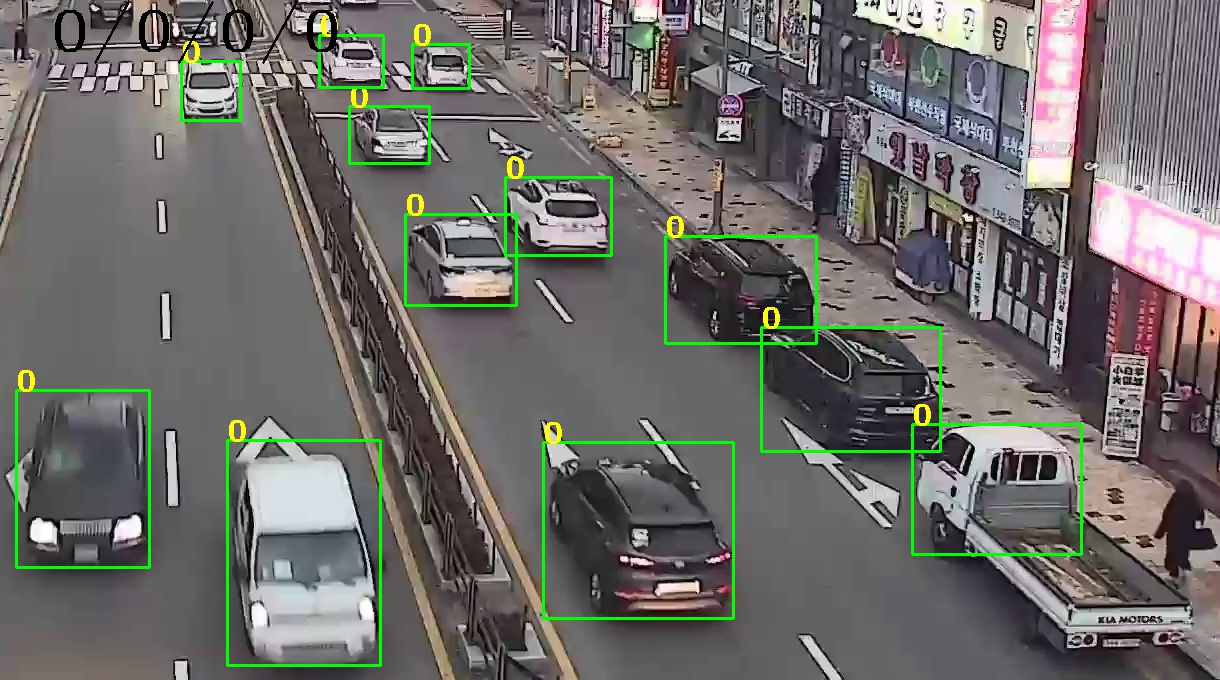
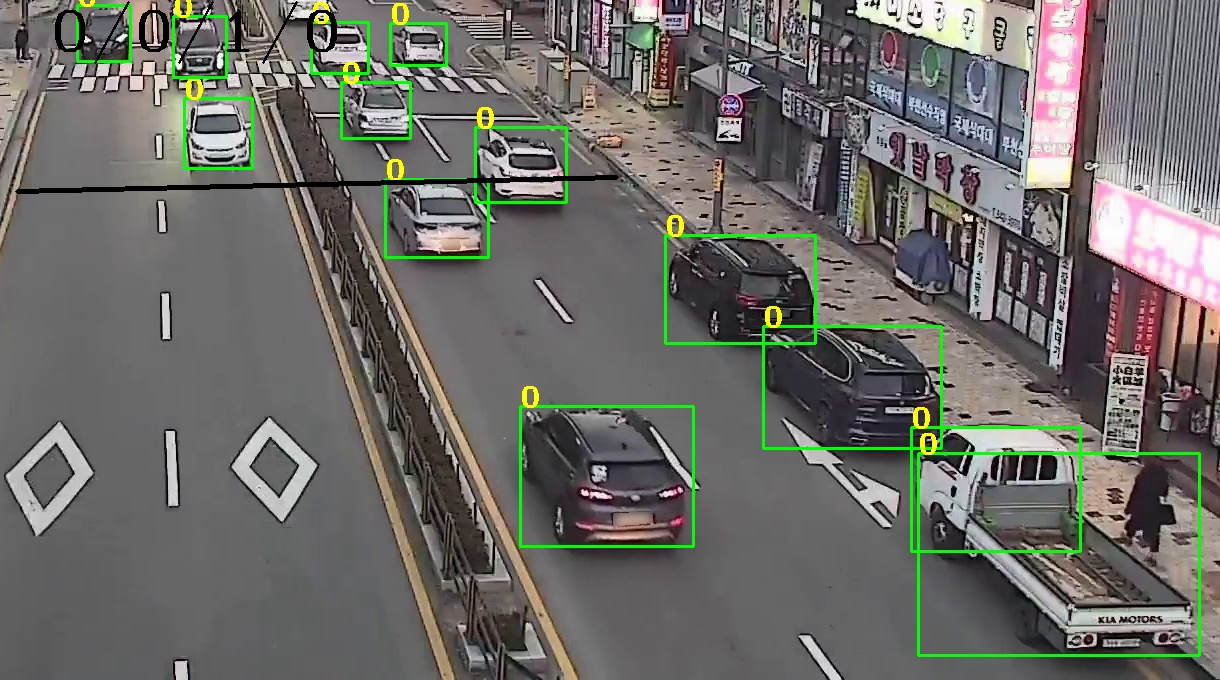
12120933

diff --git a/detect_data_1.py b/detect_data_1.py
@@ -59,26 +59,33 @@ def get_tracking_list (tracker):
     return track_id_list, track_bboxes_list
 
 
-def draw_image(image, cnt_points, bboxes, risks, car_count, parking_bboxes):
+def draw_image(image, cnt_points, bboxes, risks, car_count, parking_bboxes,track_id_list,track_bboxes_array):
 
     if len(bboxes) != 0:
         for risk, box in zip(risks, bboxes):
-            x, y, w, h = box
-            color = (255, 0, 0) if risk > VIOLATE_THRESHOLD else (0, 255, 0)
-            cv2.rectangle(image, (x, y), (x+w, y+h), color, 2)
-            cv2.putText(image, str(int(risk*100)), (x, y), cv2.FONT_HERSHEY_COMPLEX_SMALL, 1.5, (255, 255, 0), 2)
+        # YOLO BBOX 그림
+            color = (255, 0, 0) if risk > 0.25 else (0, 255, 0)
+            if int(box[2]) <= 220:
+                cv2.rectangle(image, (int(box[0]), int(box[1])), (int(box[2]+ int(box[0])), int(box[3])+int(box[1])), color, 2)
+            #cv2.putText(image, str(int(risk*100)), (x, y), cv2.FONT_HERSHEY_COMPLEX_SMALL, 1.5, (255, 255, 0), 2)
 
     if len(parking_bboxes) != 0:
         for box in parking_bboxes:
             x, y, w, h = box
-            cv2.rectangle(image, (x, y), (x+w, y+h), (0, 0, 255), 2)
+            cv2.rectangle(image, (x, y), (x+w, y+h), (0, 255, 0), 2)
 
     road_str = ''.join([str(int(car_count[i])) + '/' for i in range(1, len(car_count))])[:-1]
 
     (x1, y1), (x2, y2) = cnt_points
     cv2.line(image, (x1, y1), (x2, y2), (0, 0, 0), 3)
     cv2.putText(image, road_str, (50, 50), cv2.FONT_HERSHEY_COMPLEX_SMALL, 3, (0, 0, 0), 2)
+
+    for track_id,box in zip(track_id_list,track_bboxes_array):
+        if track_id != 15:
+            cv2.putText(image, str(track_id), (int(box[0]), int(box[1])), cv2.FONT_HERSHEY_COMPLEX_SMALL, 2, (0, 255, 0), 2)
     image = cv2.cvtColor(np.array(image), cv2.COLOR_BGR2RGB)
+
+
     
     return image
 
@@ -230,7 +237,7 @@ def main(_argv):
             if id in violate_ids:
                 parking_bboxes.append(track_bboxes_array[i])
 
-        image = draw_image(original_image, lanes['cnt_lane'][1], bboxes, risks, car_count, parking_bboxes)
+        image = draw_image(original_image, lanes['cnt_lane'][1], bboxes, risks, car_count, parking_bboxes,track_id_list,track_bboxes_array)
 
         cv2.imshow("Output Video", image)
         cv2.imwrite('result.jpg', image)

diff --git a/main_util.py b/main_util.py
@@ -73,17 +73,27 @@ def update_id_road(bboxes, lanes, ids, id_road):
     return id_road
 
 
-def update(bboxes, lanes, car_count, ids, id_road, id_time, id_is_parking_violate): 
+def update(bboxes, lanes, car_count, ids, id_road, id_time, id_is_parking_violate, id_is_count): 
     if len(bboxes) != 0:
+        idx = 0
         for i, road_num in enumerate(id_road):
-            if i not in ids and road_num != 0:
-                car_count[road_num] += 1
+            if i not in ids:
                 id_road[i] = 0
+            else:
+                if id_is_count[i] == 0:
+                    cnt_lane = lanes['cnt_lane'][0]
+                    x, y, w, h = bboxes[idx]
+                    for b, a in np.argwhere(cnt_lane):
+                        if x < a < x+w and y < b < y+h:
+                            car_count[id_road[i]] += 1
+                            id_is_count[i] = 1
+                            break
+                idx += 1
         id_road = update_id_road(bboxes, lanes, ids, id_road)
         id_time = update_id_time(bboxes, lanes, ids, id_time)
         id_is_parking_violate = check_parking_violate(id_time, id_is_parking_violate)
 
-    return car_count, id_road, id_time, id_is_parking_violate
+    return car_count, id_road, id_time, id_is_parking_violate, id_is_count
 
 
 def update_id_time(bboxes, lanes, ids, id_time):

diff --git a/get_lane.py b/get_lane.py
@@ -15,7 +15,7 @@ def get_lanes(path):
         'solid_lane':[],
         'dashed_lane':[],
         'parking_lane':[],
-        'stop_lane':[]
+        'cnt_lane':[]
     }
 
     with open(path) as fp:
@@ -28,6 +28,8 @@ def get_lanes(path):
             road[obj['label'][-1]] = get_lane_map(image_shape, pts)
         else:
             lanes[obj['label']].append(get_lane_map(image_shape, pts))
+            if obj['label'] == 'cnt_lane':
+                lanes[obj['label']].append(pts)
 
     lanes['road'] = [road[k] for k in sorted(road)]
 

diff --git a/resize.py b/resize.py
@@ -3,11 +3,11 @@ import cv2
 import numpy as np
 import os
 import image_util
-BASE_PATH = './video_sample/'
-SAVE_PATH = 'resized/'
+BASE_PATH = './data_3_base'
+SAVE_PATH = './data_3'
 
 # ROI 설정
-ROI_DEFAULT = (700, 400, 1920, 1080)
+ROI_DEFAULT = (470, 110, 1920, 1080)
 roi_rect = ROI_DEFAULT
 
 # ROI 좌표를 CV2 에 맞게 좌표 설정
